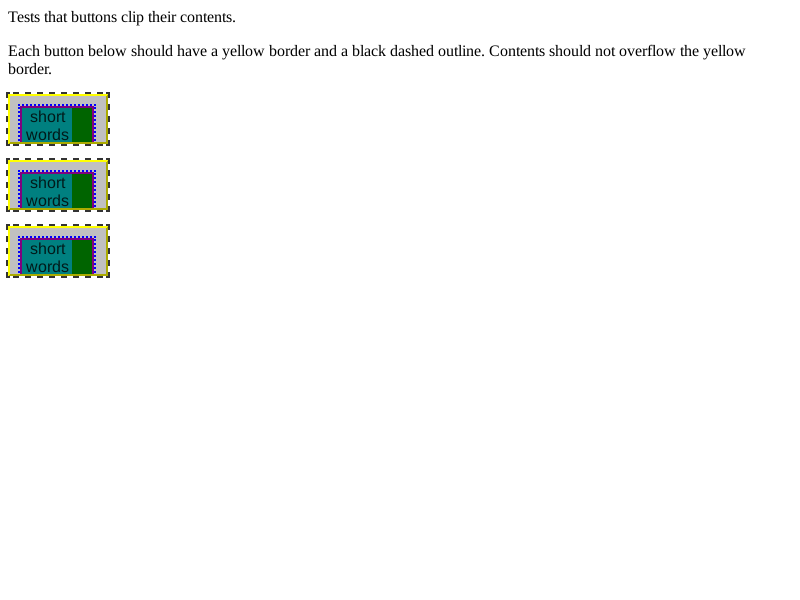
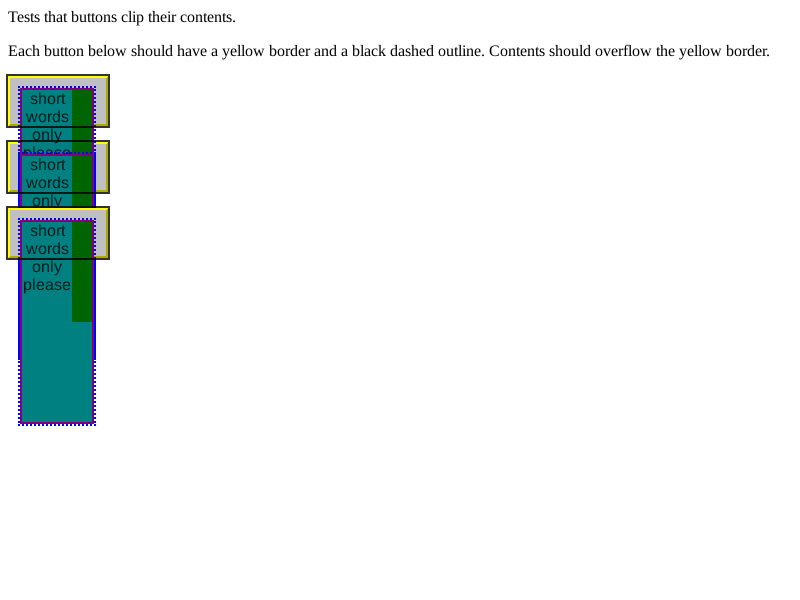
Button elements are clipping overflow by default
Button elements are clipping overflow by default
https://bugs.webkit.org/show_bug.cgi?id=173872

Reviewed by Aditya Keerthi.

This patch is to align Webkit with Gecko / Firefox and Blink / Chromium.

Merge - https://src.chromium.org/viewvc/blink?view=revision&revision=193213

By default, the button element has clipping overflow and it is not aligned with web
and causes webcompat issues (e.g., http://nydailynews.com (see the feedback button)).

* Source/WebCore/rendering/RenderButton.cpp:
(RenderButton::hasControlClip): Add new function
* Source/WebCore/rendering/RenderButton.h: Update "hasControlClip" to not return
true by default
* LayoutTests/fast/forms/control-clip.html: Rebaselined
* LayoutTests/fast/forms/control-clip-overflow.html: Rebaselined
* LayoutTests/platform/gtk/fast/forms/control-clip-expected.png: Rebaselined
* LayoutTests/platform/gtk/fast/forms/control-clip-expected.txt: Rebaselined
* LayoutTests/platform/gtk/fast/forms/control-clip-overflow-expected.png: Rebaselined
* LayoutTests/platform/gtk/fast/forms/control-clip-overflow-expected.txt: Rebaselined
* LayoutTests/platform/ios/fast/forms/control-clip-expected.txt: Rebaselined
* LayoutTests/platform/ios/fast/forms/control-clip-overflow-expected.txt: Rebaselined
* LayoutTests/platform/mac/fast/forms/control-clip-expected.png: Rebaselined
* LayoutTests/platform/mac/fast/forms/control-clip-expected.txt: Rebaselined
* LayoutTests/platform/mac/fast/forms/control-clip-overflow-expected.png: Rebaselined
[…]

Changed region(s): [[0.0, 0.09, 0.1562, 0.72], [0.75, 0.06, 0.9688, 0.12]]

diff --git a/LayoutTests/fast/forms/control-clip-overflow.html b/LayoutTests/fast/forms/control-clip-overflow.html
@@ -6,7 +6,8 @@
     REGRESSION: Really long &lt;option> causes unnecessary page scroll bars to accommodate content</i>.
 </p>
 <p>
-    There should not be scroll bars below the popup and the button.
+    There should not be scroll bars below the popup.
+    There should be scrollbars below the button (see https://bugs.webkit.org/show_bug.cgi?id=173872).
 </p>
 <div class="test-area">
     <select style="width: 80px">

diff --git a/LayoutTests/fast/forms/control-clip.html b/LayoutTests/fast/forms/control-clip.html
@@ -12,7 +12,7 @@
     </p>
     <p>
         Each button below should have a yellow border and a black dashed outline.
-        Contents should not overflow the yellow border.
+        Contents should overflow the yellow border.
     </p>
     <p>
         <button>

diff --git a/Source/WebCore/rendering/RenderButton.h b/Source/WebCore/rendering/RenderButton.h
@@ -1,6 +1,7 @@
 /*
- * Copyright (C) 2005 Apple Inc.
- *
+ * Copyright (C) 2005-2022 Apple Inc.
+ * Copyright (C) 2022 Google Inc. All rights reserved.
+ * 
  * This library is free software; you can redistribute it and/or
  * modify it under the terms of the GNU Library General Public
  * License as published by the Free Software Foundation; either
@@ -46,7 +47,7 @@ public:
     void updateFromElement() override;
 
     bool canHaveGeneratedChildren() const override;
-    bool hasControlClip() const override { return true; }
+    bool hasControlClip() const override;
     LayoutRect controlClipRect(const LayoutPoint&) const override;
 
     void updateAnonymousChildStyle(RenderStyle&) const override;

diff --git a/Source/WebCore/rendering/RenderButton.cpp b/Source/WebCore/rendering/RenderButton.cpp
@@ -1,5 +1,6 @@
 /**
- * Copyright (C) 2005 Apple Inc.
+ * Copyright (C) 2005-2022 Apple Inc.
+ * Copyright (C) 2015 Google Inc. All rights reserved.
  *
  * This library is free software; you can redistribute it and/or
  * modify it under the terms of the GNU Library General Public
@@ -168,5 +169,11 @@ void RenderButton::layout()
     RenderThemeIOS::adjustRoundBorderRadius(mutableStyle(), *this);
 }
 #endif
+
+// Only clip overflow on input elements, to match other browsers.
+bool RenderButton::hasControlClip() const
+{
+    return is<HTMLInputElement>(formControlElement());
+}
 
 } // namespace WebCore
